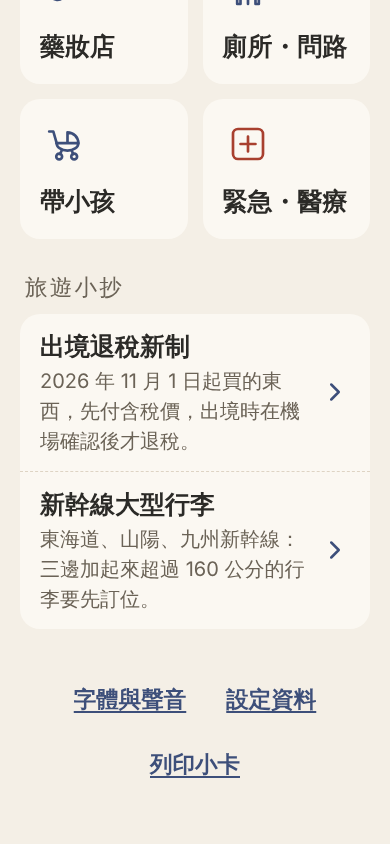
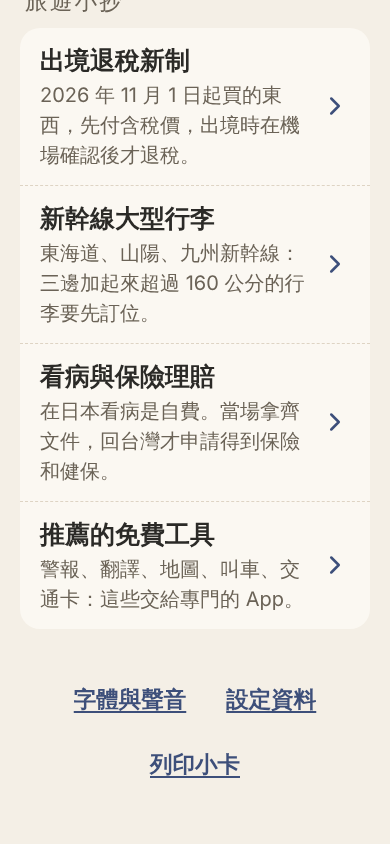
Add the medical-claim guide and recommended tools (#27)
- Guide 看病與保險理賠: insurer hotline first, documents to collect on the
  spot, NHI overseas emergency reimbursement within 6 months (MOHW)
- Emergency phrases: English medical certificate, itemised bill, card
  payment; the documents phrase links to the guide
- #/tools: free apps that already do the job (Safety tips, Google
  Translate and Maps, GO, Welcome Suica Mobile, Visit Japan Web), named
  for app-store search; listed under 旅遊小抄 on home

Claude-Session: https://claude.ai/code/session_01FL5DYQMe9ZWzkevjtD88Bj

diff --git a/src/ui/guide.ts b/src/ui/guide.ts
@@ -1,29 +1,59 @@
 import { GUIDES, guideById } from "../content/guides";
+import { TOOLS } from "../content/tools";
 import { h, icon } from "./dom";
 import { heading, page, section } from "./layout";
 
-/** One row per guide, for the home page: title and a one-line summary. */
+function row(href: string, title: string, summary: string): HTMLElement {
+  return h(
+    "a",
+    {
+      href,
+      class: "flex min-h-16 items-center gap-3 px-4 py-3 transition-colors active:bg-ai-soft focus-visible:[outline-offset:-3px]",
+    },
+    h(
+      "span",
+      { class: "min-w-0 flex-1" },
+      h("span", { class: "block text-xl font-semibold leading-snug" }, title),
+      h("span", { class: "mt-0.5 block text-base text-muted" }, summary),
+    ),
+    icon("next", "h-6 w-6 shrink-0 text-ai"),
+  );
+}
+
+/** One row per guide for the home page, then the recommended tools. */
 export function guideRows(): HTMLElement {
   return h(
     "div",
     { class: "divide-y divide-dashed divide-hair overflow-hidden rounded-2xl bg-card" },
-    GUIDES.map((guide) =>
-      h(
-        "a",
-        {
-          href: `#/guide/${guide.id}`,
-          class: "flex min-h-16 items-center gap-3 px-4 py-3 transition-colors active:bg-ai-soft focus-visible:[outline-offset:-3px]",
-        },
+    GUIDES.map((guide) => row(`#/guide/${guide.id}`, guide.title, guide.summary)),
+    row("#/tools", "推薦的免費工具", "警報、翻譯、地圖、叫車、交通卡：這些交給專門的 App。"),
+  );
+}
+
+/** `#/tools`: free apps that already do a job well, named so they can be found in the app store. */
+export function renderTools(root: HTMLElement): void {
+  page(root, "旅遊小抄", [
+    h("h2", { class: "mt-2 text-2xl font-bold leading-snug" }, "推薦的免費工具"),
+    h(
+      "p",
+      { class: "mt-2 text-lg leading-relaxed text-muted" },
+      "這些事已經有好用的 App，出發前在 App Store 或 Google Play 搜尋名稱下載。",
+    ),
+    h(
+      "ul",
+      { class: "mt-5 divide-y divide-dashed divide-hair rounded-2xl bg-card" },
+      TOOLS.map((tool) =>
         h(
-          "span",
-          { class: "min-w-0 flex-1" },
-          h("span", { class: "block text-xl font-semibold leading-snug" }, guide.title),
-          h("span", { class: "mt-0.5 block text-base text-muted" }, guide.summary),
+          "li",
+          { class: "px-4 py-4" },
+          h("h3", { class: "text-xl font-semibold" }, tool.name),
+          h("p", { class: "mt-1 text-lg leading-relaxed" }, tool.use),
+          tool.note && h("p", { class: "mt-1 text-base text-muted" }, tool.note),
         ),
-        icon("next", "h-6 w-6 shrink-0 text-ai"),
       ),
     ),
-  );
+    section(null, h("p", { class: "text-base text-muted" }, "日本政府觀光局的 24 小時中文熱線在「我需要幫忙」頁。")),
+  ]);
 }
 
 /** `#/guide/<id>`: numbered steps, then what goes wrong, then where it comes from. */

diff --git a/src/content/tools.ts b/src/content/tools.ts
@@ -1,0 +1,55 @@
+/**
+ * Free tools that already do a job well, so this app points to them instead
+ * of rebuilding them. Named, not linked: travellers find them by searching
+ * the app store, and store links break. Checked 2026-10-11 from search
+ * results quoting the publishers' announcements (sources below).
+ */
+export interface Tool {
+  id: string;
+  name: string;
+  /** What it is for, in one line. */
+  use: string;
+  /** Anything to know before relying on it. */
+  note?: string;
+}
+
+export const TOOLS: Tool[] = [
+  {
+    id: "safety-tips",
+    name: "Safety tips",
+    use: "地震、海嘯、颱風、中暑警報會推播通知，有繁體中文。日本觀光廳監修。",
+    // https://www.city.nagoya.jp/bousaiportal/international/1037420.html (15 languages incl. Traditional Chinese)
+  },
+  {
+    id: "google-translate",
+    name: "Google 翻譯",
+    use: "用相機拍菜單、招牌、藥品說明，直接看中文。",
+    note: "先下載日文離線翻譯，沒網路也能用。",
+  },
+  {
+    id: "google-maps",
+    name: "Google 地圖",
+    use: "查路線、轉乘和走路時間。",
+    note: "大車站裡的出口和電梯不一定準，到站後問站務員比較快。",
+  },
+  {
+    id: "go-taxi",
+    name: "GO（計程車）",
+    use: "在日本叫計程車，2026 年 3 月起有繁體中文。",
+    note: "建議出發前先下載、註冊好。",
+    // https://www.travelvoice.jp/english/japan-s-taxi-app-go-opens-a-mini-program-in-china-s-no-1-communication-app-wechat-in-partnership-with-e-ticket-platform-linktivity
+  },
+  {
+    id: "welcome-suica",
+    name: "Welcome Suica Mobile",
+    use: "iPhone 用的交通卡，不用押金，可以搭車和在便利商店付款。",
+    note: "只有 iPhone 能用，效期 180 天。",
+    // https://www.businesswire.com/news/home/20250310510899/en (launched 2025-03-06)
+  },
+  {
+    id: "visit-japan-web",
+    name: "Visit Japan Web",
+    use: "入境審查和海關申報的 QR code。部分機場也能用來辦出境退稅。",
+    note: "出發前在台灣先填好。",
+  },
+];

diff --git a/src/content/guides.ts b/src/content/guides.ts
@@ -111,6 +111,42 @@ export const GUIDES: Guide[] = [
     ],
     verified: "2026-10-11",
   },
+  {
+    id: "medical-claim",
+    title: "看病與保險理賠",
+    summary: "在日本看病是自費。當場拿齊文件，回台灣才申請得到保險和健保。",
+    steps: [
+      {
+        title: "先打保險公司的急難救助電話",
+        body: "電話印在保單或保險卡上。問他們該去哪家醫院、能不能由保險公司直接付款。",
+      },
+      {
+        title: "帶護照和醫療卡去看病",
+        body: "醫療卡在這個 App 的「醫療卡」頁，給醫生看。很多診所要先打電話確認能不能看。",
+      },
+      {
+        title: "付錢時拿齊文件",
+        body: "診斷書（最好是英文）、收據正本、費用明細。診斷書可能要另外付費，也可能要等幾天才拿得到。",
+      },
+      {
+        title: "回台灣後申請",
+        body: "照保險公司的要求寄文件。健保的「自墊醫療費用核退」也可以申請，期限是看診或出院後 6 個月內。",
+      },
+    ],
+    notes: [
+      "健保核退要附：申請書、收據正本和明細、診斷書（外文要附中文翻譯）、這次出入境的證明。",
+      "走自動通關的話，出入境證明可能要另外申請，出發前先問清楚。",
+      "健保核退只限緊急傷病，金額有上限，通常不會全額退。旅遊保險要另外買。",
+      "藥局買藥也要留收據。",
+    ],
+    sources: [
+      // Ministry of Health and Welfare / NHIA: overseas emergency self-paid reimbursement, 6 months, documents
+      // (application, original receipts and itemised bill, certificate with Chinese translation, entry/exit proof).
+      "https://www.mohw.gov.tw/cp-16-73066-1.html",
+      "https://www.nhi.gov.tw/",
+    ],
+    verified: "2026-10-11",
+  },
 ];
 
 export function guideById(id: string | undefined): Guide | undefined {

diff --git a/src/content/scenes/emergency.ts b/src/content/scenes/emergency.ts
@@ -59,6 +59,28 @@ export default {
       group: "body",
       zh: "請給我診斷書和收據（保險理賠要用）。",
       jp: "{保険|ほけん} の ため に {診断書|しんだんしょ} と {領収書|りょうしゅうしょ} を ください。",
+      link: { href: "#/guide/medical-claim", label: "看理賠要準備的文件" },
+    },
+    {
+      id: "emergency-english-certificate",
+      group: "body",
+      zh: "可以開英文的診斷書嗎？",
+      jp: "{英語|えいご} の {診断書|しんだんしょ} を {書|か}いて いただけます か。",
+      tip: "診斷書可能要另外付費，或要等幾天才拿得到。",
+      answers: "yesNo",
+    },
+    {
+      id: "emergency-itemized-bill",
+      group: "body",
+      zh: "請也給我費用明細。",
+      jp: "{診療|しんりょう} {明細書|めいさいしょ} も ください。",
+    },
+    {
+      id: "emergency-card-pay",
+      group: "body",
+      zh: "可以刷信用卡付嗎？",
+      jp: "クレジットカード で {払|はら}えます か。",
+      answers: "yesNo",
     },
     { id: "emergency-stolen", group: "lost", zh: "我的東西被偷了。", jp: "{物|もの} を {盗|ぬす}まれました。" },
     { id: "emergency-lost-wallet", group: "lost", zh: "我的錢包掉了。", jp: "{財布|さいふ} を なくしました。" },

diff --git a/tests/content.test.ts b/tests/content.test.ts
@@ -1,6 +1,7 @@
 import { describe, expect, it } from "vitest";
 import { EMERGENCY_NUMBERS } from "../src/content/emergency";
 import { GUIDES } from "../src/content/guides";
+import { TOOLS } from "../src/content/tools";
 import { CONDITIONS, DIETS, DRUG_ALLERGIES, FOOD_ALLERGIES, SYMPTOMS, SYMPTOMS_INTRO } from "../src/content/medical";
 import { RESCUE } from "../src/content/rescue";
 import { SCENES } from "../src/content/scenes";
@@ -74,6 +75,14 @@ describe("phrase groups", () => {
   it("splits the emergency scene into body, lost, separated and disaster", () => {
     const emergency = SCENES.find((s) => s.id === "emergency")!;
     expect(emergency.groups?.map((g) => g.id)).toEqual(["body", "lost", "separated", "disaster"]);
+  });
+
+  it("describes every recommended tool", () => {
+    expect(new Set(TOOLS.map((t) => t.id)).size).toBe(TOOLS.length);
+    for (const tool of TOOLS) {
+      expect(tool.name.trim(), tool.id).not.toBe("");
+      expect(tool.use.trim(), tool.id).not.toBe("");
+    }
   });
 
   it("refuses a guide without a source or a verified date", () => {

diff --git a/src/main.ts b/src/main.ts
@@ -2,7 +2,7 @@ import "./style.css";
 import { onVoicesChanged } from "./lib/speech";
 import { applySettings } from "./state";
 import { focusHeading } from "./ui/dom";
-import { renderGuide } from "./ui/guide";
+import { renderGuide, renderTools } from "./ui/guide";
 import { renderHelp } from "./ui/help";
 import { renderHome } from "./ui/home";
 import { renderHotel } from "./ui/hotel";
@@ -33,6 +33,7 @@ const PAGES: Record<string, Page> = {
   settings: renderSettings,
   setup: renderSetup,
   share: renderShare,
+  tools: renderTools,
   s: renderImport,
   imported: renderImported,
 };

diff --git a/src/ui/medical.ts b/src/ui/medical.ts
@@ -10,7 +10,13 @@ import { showToOther } from "./overlay";
 import { phraseRow, rowGroup } from "./scene";
 
 /** Phrases from the emergency scene that belong next to the cards. */
-const MEDICAL_PHRASES = ["emergency-ambulance", "emergency-to-hospital", "emergency-insurance", "emergency-documents"];
+const MEDICAL_PHRASES = [
+  "emergency-ambulance",
+  "emergency-to-hospital",
+  "emergency-insurance",
+  "emergency-documents",
+  "emergency-english-certificate",
+];
 
 /** The card, then 播放／放大 for it. */
 function cardWithActions(blocks: CardBlock[], label: string): HTMLElement {
